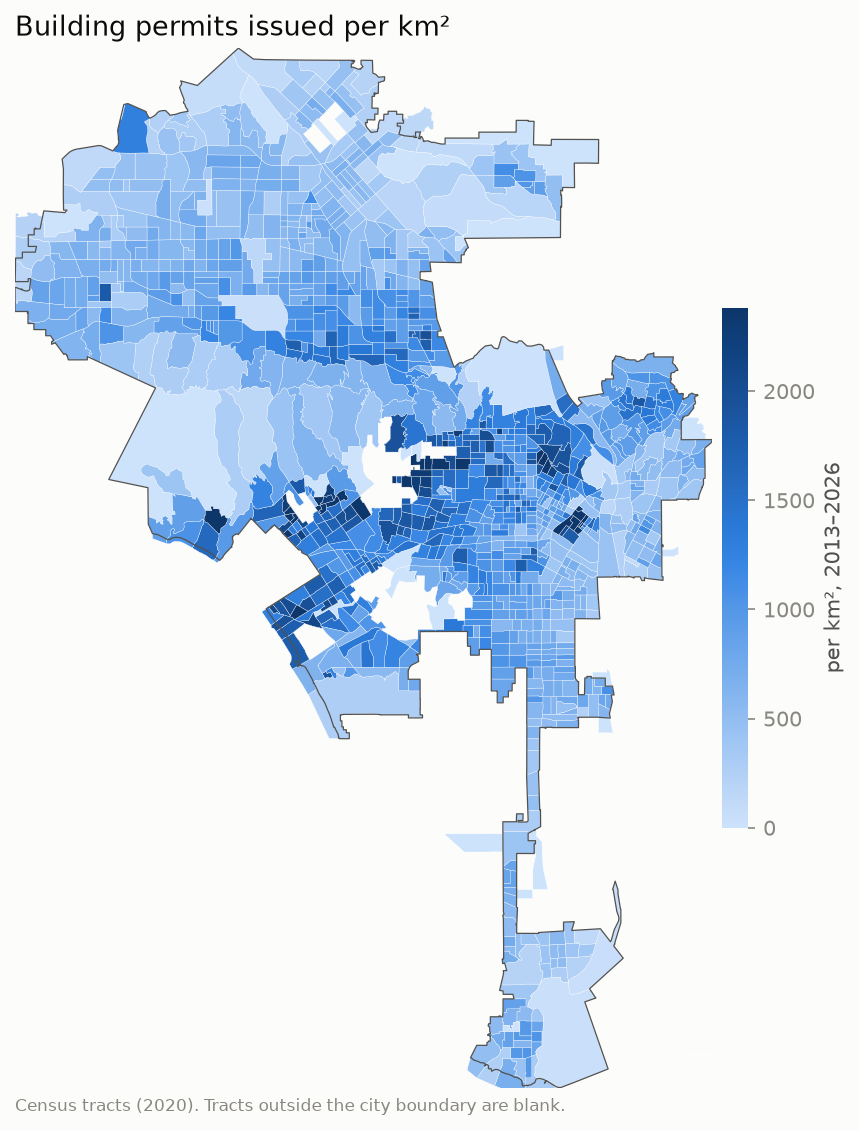
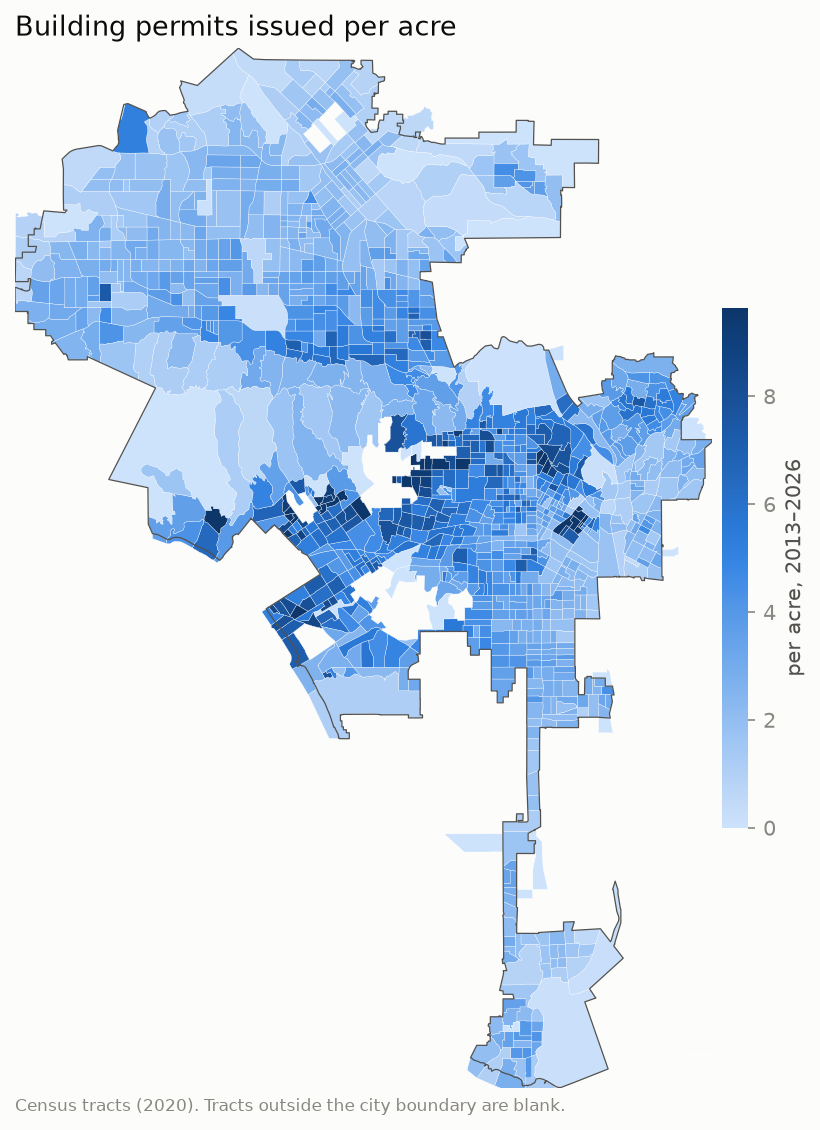
Rates per acre instead of per km² across the atlas, map page, figures and social card
Claude-Session: https://claude.ai/code/session_01RbRuwY2ffbaMn1FTBFpkTo

Changed region(s): [[0.0305, 0.0, 0.9756, 0.9912]]

diff --git a/site/atlas_template.html b/site/atlas_template.html
@@ -99,7 +99,7 @@ select:focus-visible, input:focus-visible, button:focus-visible { outline: 2px s
             <label>From <span class="yrlbl" id="yr0"></span><input id="y0" type="range"></label>
             <label>To <span class="yrlbl" id="yr1"></span><input id="y1" type="range"></label>
           </div>
-          <label class="check"><input id="perkm2" type="checkbox" checked> Per km² of land</label>
+          <label class="check"><input id="perkm2" type="checkbox" checked> Per acre of land</label>
         </div>
       </div>
       <div class="panel"><h2>Legend</h2><div class="legend" id="legend"></div></div>
@@ -122,7 +122,7 @@ const S = {geo:"tract", cls:"building", metric:"n_permits", y0:D.years.start, y1
 function syncHash(){ const h = new URLSearchParams({geo:S.geo, cls:S.cls, metric:S.metric, y0:S.y0, y1:S.y1, per:S.perkm2?"1":"0"}); if (typeof map !== "undefined" && map._loaded) { const c = map.getCenter(); h.set("v", `${c.lat.toFixed(4)},${c.lng.toFixed(4)},${map.getZoom()}`); } history.replaceState(null, "", "#" + h.toString()); }
 function detailUrl(p){ const q = new URLSearchParams({geo:S.geo, id:p.id, cls:S.cls, metric:S.metric, y0:S.y0, y1:S.y1}); return `${DETAIL_BASE}?${q}`; }
 const FEATS = () => D.geos[S.geo].fc.features;
-const fmt = (v, m) => v==null ? "—" : (m==="valuation_sum" ? "$"+Math.round(v).toLocaleString() : Math.abs(v) < 10 ? v.toLocaleString(undefined,{maximumFractionDigits:1}) : Math.round(v).toLocaleString());
+const fmt = (v, m) => v==null ? "—" : (m==="valuation_sum" ? "$"+Math.round(v).toLocaleString() : Math.abs(v) < 1 ? v.toLocaleString(undefined,{maximumFractionDigits:2}) : Math.abs(v) < 10 ? v.toLocaleString(undefined,{maximumFractionDigits:1}) : Math.round(v).toLocaleString());
 // Which metrics each class actually carries (e.g. new buildings and dwelling units exist only on building permits).
 const AVAIL = {};
 for (const f of D.geos.tract.fc.features) for (const cls of Object.keys(CLASS_LABEL)) { const c = f.properties[cls]; if (!c) continue; const a = AVAIL[cls] || (AVAIL[cls] = new Set()); for (const yy of Object.values(c)) for (const [k, v] of Object.entries(yy)) if (v) a.add(k); }
@@ -146,7 +146,7 @@ function value(p){
   let v = 0, any = false;
   for (let y = S.y0; y <= S.y1; y++){ const yy = c[String(y)]; if (yy && yy[S.metric]!=null){ v += yy[S.metric]; any = true; } }
   if (!any) return null;
-  if (S.perkm2 && p.area_km2 > 0) v = v / p.area_km2;
+  if (S.perkm2 && p.area_km2 > 0) v = v / (p.area_km2 * 247.105);
   return v;
 }
 function areaTitle(p){
@@ -178,7 +178,7 @@ function render(){
       l.bindTooltip(() => {
         const p = f.properties, v = value(p);
         const acs = p.acs ? `<div class="m">income ${p.acs.median_hh_income ? "$"+p.acs.median_hh_income.toLocaleString() : "—"} · renters ${p.acs.renter_share!=null ? Math.round(p.acs.renter_share*100)+"%" : "—"} · built ${p.acs.median_year_built || "—"}</div>` : "";
-        return `<b>${areaTitle(p)}</b><div>${METRICS[S.metric]}${S.perkm2 ? " per km²" : ""}, ${S.y0}–${S.y1}: <b>${fmt(v, S.metric)}</b></div>${acs}<div class="go">Click to list these permits</div>`;
+        return `<b>${areaTitle(p)}</b><div>${METRICS[S.metric]}${S.perkm2 ? " per acre" : ""}, ${S.y0}–${S.y1}: <b>${fmt(v, S.metric)}</b></div>${acs}<div class="go">Click to list these permits</div>`;
       }, {className:"pc", sticky:true, direction:"top", opacity:1});
       l.on("mouseover", () => l.setStyle({weight:2, color:"#eda100"}));
       l.on("mouseout", () => layer.resetStyle(l));
@@ -187,7 +187,7 @@ function render(){
   }).addTo(map);
   cdLayer.addTo(map); cdLayer.bringToFront();
   const lg = document.getElementById("legend");
-  const cap = `<div class="cap">${METRICS[S.metric]}${S.perkm2 ? " per km²" : ""}, ${S.y0}–${S.y1} · ${D.geos[S.geo].label.toLowerCase()}</div>`;
+  const cap = `<div class="cap">${METRICS[S.metric]}${S.perkm2 ? " per acre" : ""}, ${S.y0}–${S.y1} · ${D.geos[S.geo].label.toLowerCase()}</div>`;
   const rows = div
     ? DIV.map((c,i) => `<div class="row"><span class="sw" style="background:${c}"></span><span>${i===0 ? "≤ "+fmt(breaks[0]) : i===DIV.length-1 ? "≥ "+fmt(breaks[4]) : i===4 ? "0" : ""}</span></div>`)
     : RAMP.map((c,i) => `<div class="row"><span class="sw" style="background:${c}"></span><span>${i < breaks.length ? "≤ "+fmt(breaks[i], S.metric) : "> "+fmt(breaks[breaks.length-1], S.metric)}</span></div>`);

diff --git a/site/index.html b/site/index.html
@@ -30,7 +30,7 @@
     <label>Class <select id="cls"><option value="building">Building</option><option value="electrical">Electrical</option><option value="mechanical">Mechanical</option><option value="right_of_way">Right-of-way (BOE)</option></select></label>
     <label>Metric <select id="metric"></select></label>
     <label>Years <span id="yr0"></span>–<span id="yr1"></span> <input id="y0" type="range"> <input id="y1" type="range"></label>
-    <label><input id="perkm2" type="checkbox" checked> per km²</label>
+    <label><input id="perkm2" type="checkbox" checked> per acre</label>
     <span class="note" id="note"></span>
   </header>
   <div id="map"></div>
@@ -57,7 +57,7 @@ function value(props){
   let v = 0, any=false;
   for (let y=state.y0; y<=state.y1; y++){ const yy=c[String(y)]; if(yy && yy[state.metric]!=null){ v+=yy[state.metric]; any=true; } }
   if(!any) return null;
-  if(state.perkm2 && props.area_km2>0) v = v/props.area_km2;
+  if(state.perkm2 && props.area_km2>0) v = v/(props.area_km2*247.105);
   return v;
 }
 function quantiles(vals, n){ const s=[...vals].filter(v=>v!=null && isFinite(v)).sort((a,b)=>a-b); if(!s.length) return []; return Array.from({length:n-1},(_,i)=>s[Math.floor((i+1)*s.length/n)]); }
@@ -78,7 +78,7 @@ function render(){
   geoLayer = L.geoJSON(fc, {
     style: f => { const v=value(f.properties); const c=colorOf(v); return {weight:0.4, color:"#ffffff", fillColor:c||"#ffffff", fillOpacity:c?0.82:0}; },
     onEachFeature: (f, l) => {
-      l.bindTooltip(() => { const p=f.properties; const v=value(p); const id=p.name||p.id; const fmt = v==null?"no permits":(state.metric==="valuation_sum"? "$"+Math.round(v).toLocaleString() : v.toLocaleString(undefined,{maximumFractionDigits: Math.abs(v)<10?1:0})); const acs = p.acs? `<br><span style="color:#898781">income $${(p.acs.median_hh_income||0).toLocaleString()} · renters ${Math.round((p.acs.renter_share||0)*100)}%</span>`:""; return `<b>${id}</b><br>${METRIC_LABELS[state.metric]}${state.perkm2?" per km²":""}: ${fmt}${acs}`; }, {className:"pc", sticky:true});
+      l.bindTooltip(() => { const p=f.properties; const v=value(p); const id=p.name||p.id; const fmt = v==null?"no permits":(state.metric==="valuation_sum"? "$"+Math.round(v).toLocaleString() : v.toLocaleString(undefined,{maximumFractionDigits: Math.abs(v)<10?1:0})); const acs = p.acs? `<br><span style="color:#898781">income $${(p.acs.median_hh_income||0).toLocaleString()} · renters ${Math.round((p.acs.renter_share||0)*100)}%</span>`:""; return `<b>${id}</b><br>${METRIC_LABELS[state.metric]}${state.perkm2?" per acre":""}: ${fmt}${acs}`; }, {className:"pc", sticky:true});
       l.on("mouseover", () => l.setStyle({weight:2, color:"#eda100"}));
       l.on("mouseout", () => geoLayer.resetStyle(l));
     }
@@ -87,7 +87,7 @@ function render(){
   if (legend) legend.remove();
   legend = L.control({position:"bottomright"});
   legend.onAdd = () => { const d=L.DomUtil.create("div","legend"); const fmt=x=>state.metric==="valuation_sum"?"$"+Math.round(x).toLocaleString():x.toLocaleString(undefined,{maximumFractionDigits:1});
-    d.innerHTML = `<b>${METRIC_LABELS[state.metric]}</b>${state.perkm2?" per km²":""}, ${state.y0}–${state.y1}<br>` + (diverging? DIV.map((c,i)=>`<span class="sw" style="background:${c}"></span>${i===0?"≤ "+fmt(breaks[0]):i===DIV.length-1?"≥ "+fmt(breaks[4]):i===4?"0":""}<br>`).join("") : RAMP.map((c,i)=>`<span class="sw" style="background:${c}"></span>${i<breaks.length? "≤ "+fmt(breaks[i]) : "> "+fmt(breaks[breaks.length-1])}<br>`).join(""));
+    d.innerHTML = `<b>${METRIC_LABELS[state.metric]}</b>${state.perkm2?" per acre":""}, ${state.y0}–${state.y1}<br>` + (diverging? DIV.map((c,i)=>`<span class="sw" style="background:${c}"></span>${i===0?"≤ "+fmt(breaks[0]):i===DIV.length-1?"≥ "+fmt(breaks[4]):i===4?"0":""}<br>`).join("") : RAMP.map((c,i)=>`<span class="sw" style="background:${c}"></span>${i<breaks.length? "≤ "+fmt(breaks[i]) : "> "+fmt(breaks[breaks.length-1])}<br>`).join(""));
     return d; };
   legend.addTo(map);
 }

diff --git a/src/plancheck/analysis/runner.py b/src/plancheck/analysis/runner.py
@@ -48,10 +48,10 @@ def run_analysis(ahj: str = "all", figures: bool = True) -> None:
             continue
         outs = [
             F.fig_tract_choropleth(
-                a.slug, tr, "n_permits", "Building permits issued per km²", (y0, y1), "building"
+                a.slug, tr, "n_permits", "Building permits issued per acre", (y0, y1), "building"
             ),
             F.fig_tract_choropleth(
-                a.slug, tr, "n_new_building", "New-building permits per km²", (y0, y1), "building"
+                a.slug, tr, "n_new_building", "New-building permits per acre", (y0, y1), "building"
             ),
             F.fig_tract_choropleth(
                 a.slug,
@@ -64,13 +64,13 @@ def run_analysis(ahj: str = "all", figures: bool = True) -> None:
                 diverging=True,
             ),
             F.fig_tract_choropleth(
-                a.slug, tr, "n_adu", "ADU permits per km²", (2017, y1), "building"
+                a.slug, tr, "n_adu", "ADU permits per acre", (2017, y1), "building"
             ),
             F.fig_tract_choropleth(
                 a.slug,
                 tr,
                 "n_permits",
-                "Right-of-way (BOE) permits per km²",
+                "Right-of-way (BOE) permits per acre",
                 (y0, y1),
                 "right_of_way",
             ),
@@ -78,7 +78,7 @@ def run_analysis(ahj: str = "all", figures: bool = True) -> None:
                 a.slug,
                 tr,
                 "n_solar",
-                "Solar permits per km²",
+                "Solar permits per acre",
                 (y0, y1),
                 "electrical",
                 name="tract_n_solar_electrical",
@@ -106,7 +106,7 @@ def run_analysis(ahj: str = "all", figures: bool = True) -> None:
         years = [y for y in range(y0, y1 + 1) if (y - y0) % 2 == 0][:8]
         outs.append(
             F.fig_small_multiples(
-                a.slug, tr, "n_permits", "Building permits per km², by year", years
+                a.slug, tr, "n_permits", "Building permits per acre, by year", years
             )
         )
         if acs is not None:
@@ -172,7 +172,7 @@ def run_analysis(ahj: str = "all", figures: bool = True) -> None:
                     tot,
                     "pop_density_km2",
                     "permits_per_1k_units",
-                    "Population density (per km²)",
+                    "Population density (per acre)",
                     "Building permits per 1,000 units",
                     "scatter_density_permits",
                     logx=True,

diff --git a/src/plancheck/analysis/figures.py b/src/plancheck/analysis/figures.py
@@ -92,8 +92,8 @@ def fig_tract_choropleth(
 ) -> Path:
     df = _tract_frame(intensity, years, permit_class, metric)
     vals = df[metric].to_numpy().astype(float)
-    if per_km2:
-        vals = vals / (df["arealand_m2"].to_numpy() / 1e6)
+    if per_km2:  # per acre (the option name predates the unit change)
+        vals = vals / (df["arealand_m2"].to_numpy() / 4046.86)
     vals[~np.isfinite(vals)] = np.nan
     vals_plot = vals.copy()
     if diverging:
@@ -108,7 +108,7 @@ def fig_tract_choropleth(
     outline(ax, _city_wkbs(ahj_slug))
     set_geo_axes(ax, _city_bounds(ahj_slug))
     cb = fig.colorbar(ax.collections[0], ax=ax, shrink=0.5, pad=0.01)
-    cb.set_label(("per km²" if per_km2 else "total") + f", {years[0]}–{years[1]}", color=INK2)
+    cb.set_label(("per acre" if per_km2 else "total") + f", {years[0]}–{years[1]}", color=INK2)
     cb.outline.set_visible(False)
     ax.set_title(title, fontsize=13, loc="left")
     ax.text(
@@ -151,7 +151,7 @@ def fig_hex_density(
     outline(ax, _city_wkbs(ahj_slug))
     set_geo_axes(ax, _city_bounds(ahj_slug))
     cb = fig.colorbar(ax.collections[0], ax=ax, shrink=0.5, pad=0.01)
-    cb.set_label(f"per H3 r8 cell (~0.74 km²), {years[0]}–{years[1]}", color=INK2)
+    cb.set_label(f"per H3 r8 cell (~182 acres), {years[0]}–{years[1]}", color=INK2)
     cb.outline.set_visible(False)
     ax.set_title(title, fontsize=13, loc="left")
     return _save(fig, name or f"hex_{metric}_{permit_class or 'all'}")
@@ -188,7 +188,7 @@ def fig_small_multiples(
     for ax, year in zip(axes, years, strict=False):
         agg = d.filter(pl.col("year") == year).group_by("geo_id").agg(pl.col(metric).sum())
         df = tracts.join(agg, left_on="geoid", right_on="geo_id", how="left")
-        vals = df[metric].to_numpy().astype(float) / (df["arealand_m2"].to_numpy() / 1e6)
+        vals = df[metric].to_numpy().astype(float) / (df["arealand_m2"].to_numpy() / 4046.86)
         vals[~np.isfinite(vals)] = np.nan
         ax.add_collection(
             poly_collection(df["wkb"].to_list(), vals.tolist(), cmap=CMAP_SEQ, vmin=0, vmax=vmax)

diff --git a/scripts/og_image.py b/scripts/og_image.py
@@ -37,7 +37,7 @@ def main() -> None:
         .agg(pl.col("n_permits").sum())
     )
     df = tracts.join(agg, left_on="geoid", right_on="geo_id", how="inner")
-    vals = df["n_permits"].to_numpy() / (df["arealand_m2"].to_numpy() / 1e6)
+    vals = df["n_permits"].to_numpy() / (df["arealand_m2"].to_numpy() / 4046.86)
     vals[~np.isfinite(vals)] = np.nan
     city = PARQUET_DIR / "ref" / "ahj=la_city" / "layer=city_boundary" / "data.parquet"
     wkbs = pl.read_parquet(city)["wkb"].to_list() if city.exists() else []
@@ -80,7 +80,7 @@ def main() -> None:
     fig.text(
         0.05,
         0.16,
-        f"Building permits per km², {y0}–{y1}  ·  plancheck.sorkinlabs.com",
+        f"Building permits per acre, {y0}–{y1}  ·  plancheck.sorkinlabs.com",
         color="#737b86",
         fontsize=12,
         va="top",

diff --git a/CLAUDE.md b/CLAUDE.md
@@ -71,6 +71,8 @@ page in `site/index.html`). AHJs are pluggable: `config/sources.yaml` + `src/pla
   shapefiles), matplotlib Agg figures using the reference dataviz palette in
   `analysis/geo_plot.py` (one sequential hue for magnitude, blue–red with gray midpoint for
   polarity, fixed categorical order).
+- Areas and rates are imperial: acres and per-acre, never km² (internal `area_km2`
+  fields are converted at display time, 247.105 acres per km²).
 - Copy describes associations ("correlated with"), never causes; the final year is
   labelled partial.
 - Adding an AHJ: one block in `config/sources.yaml` (sources, geometries, reference,
